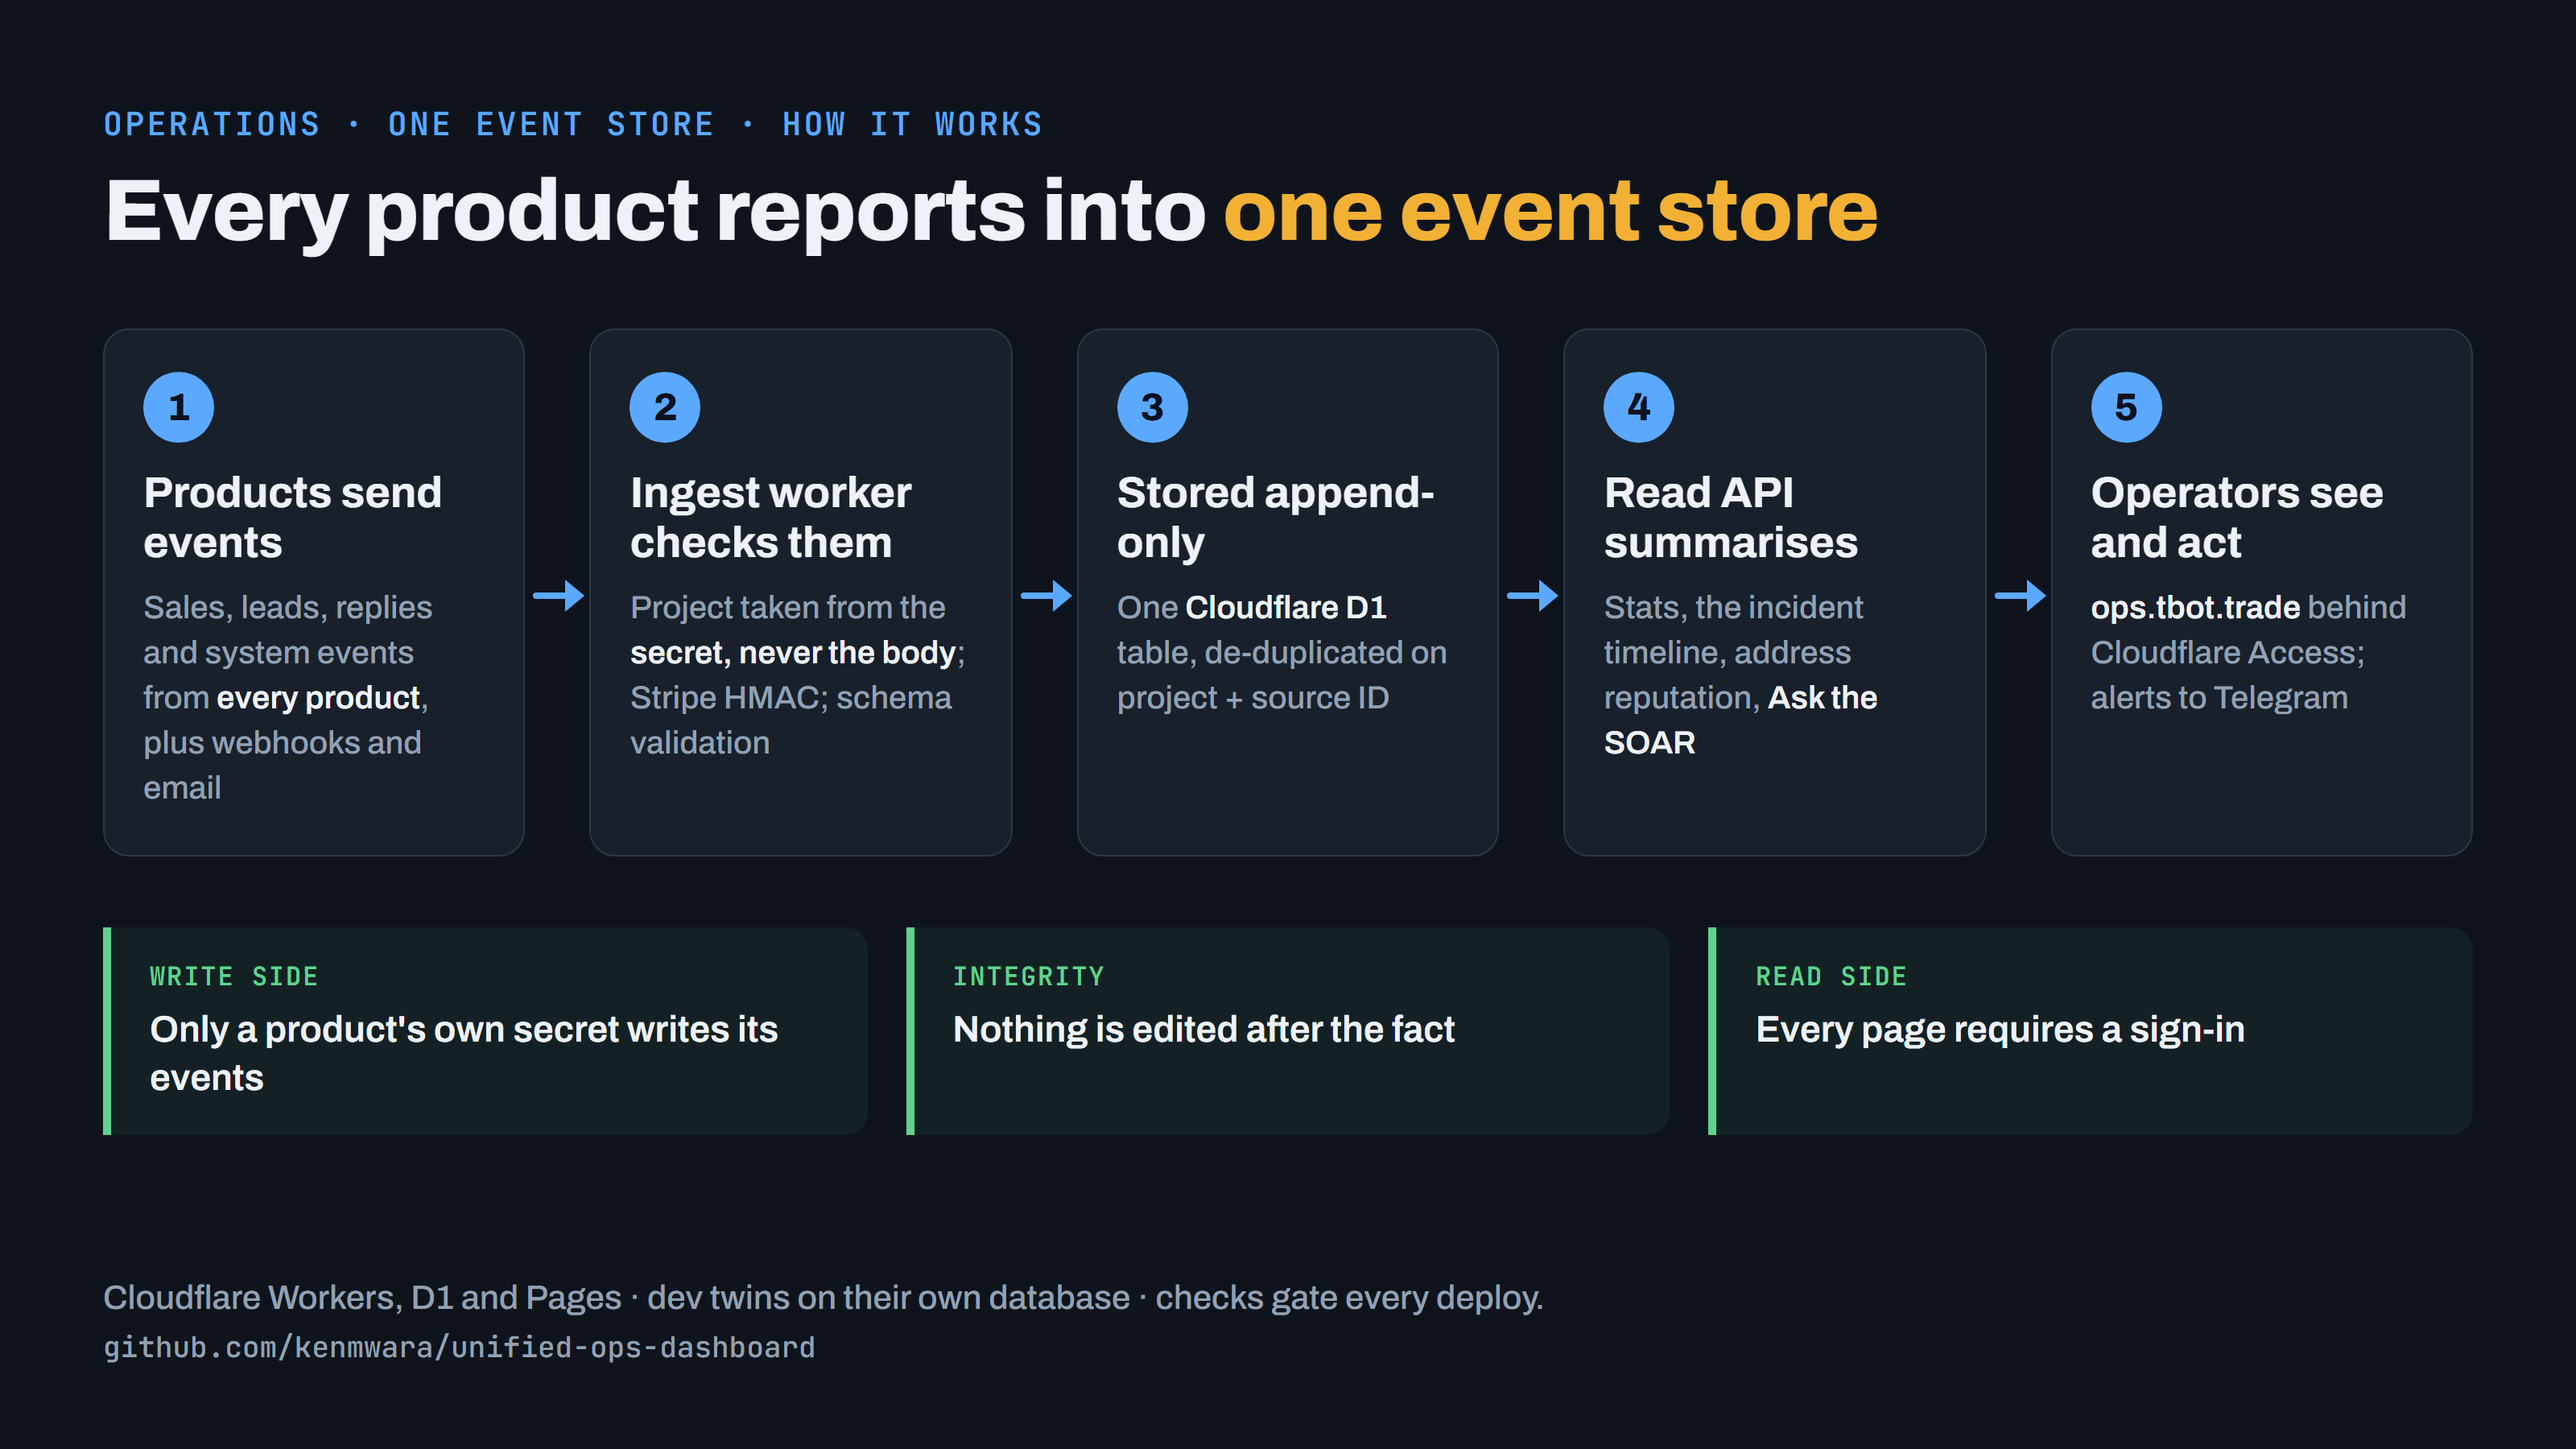
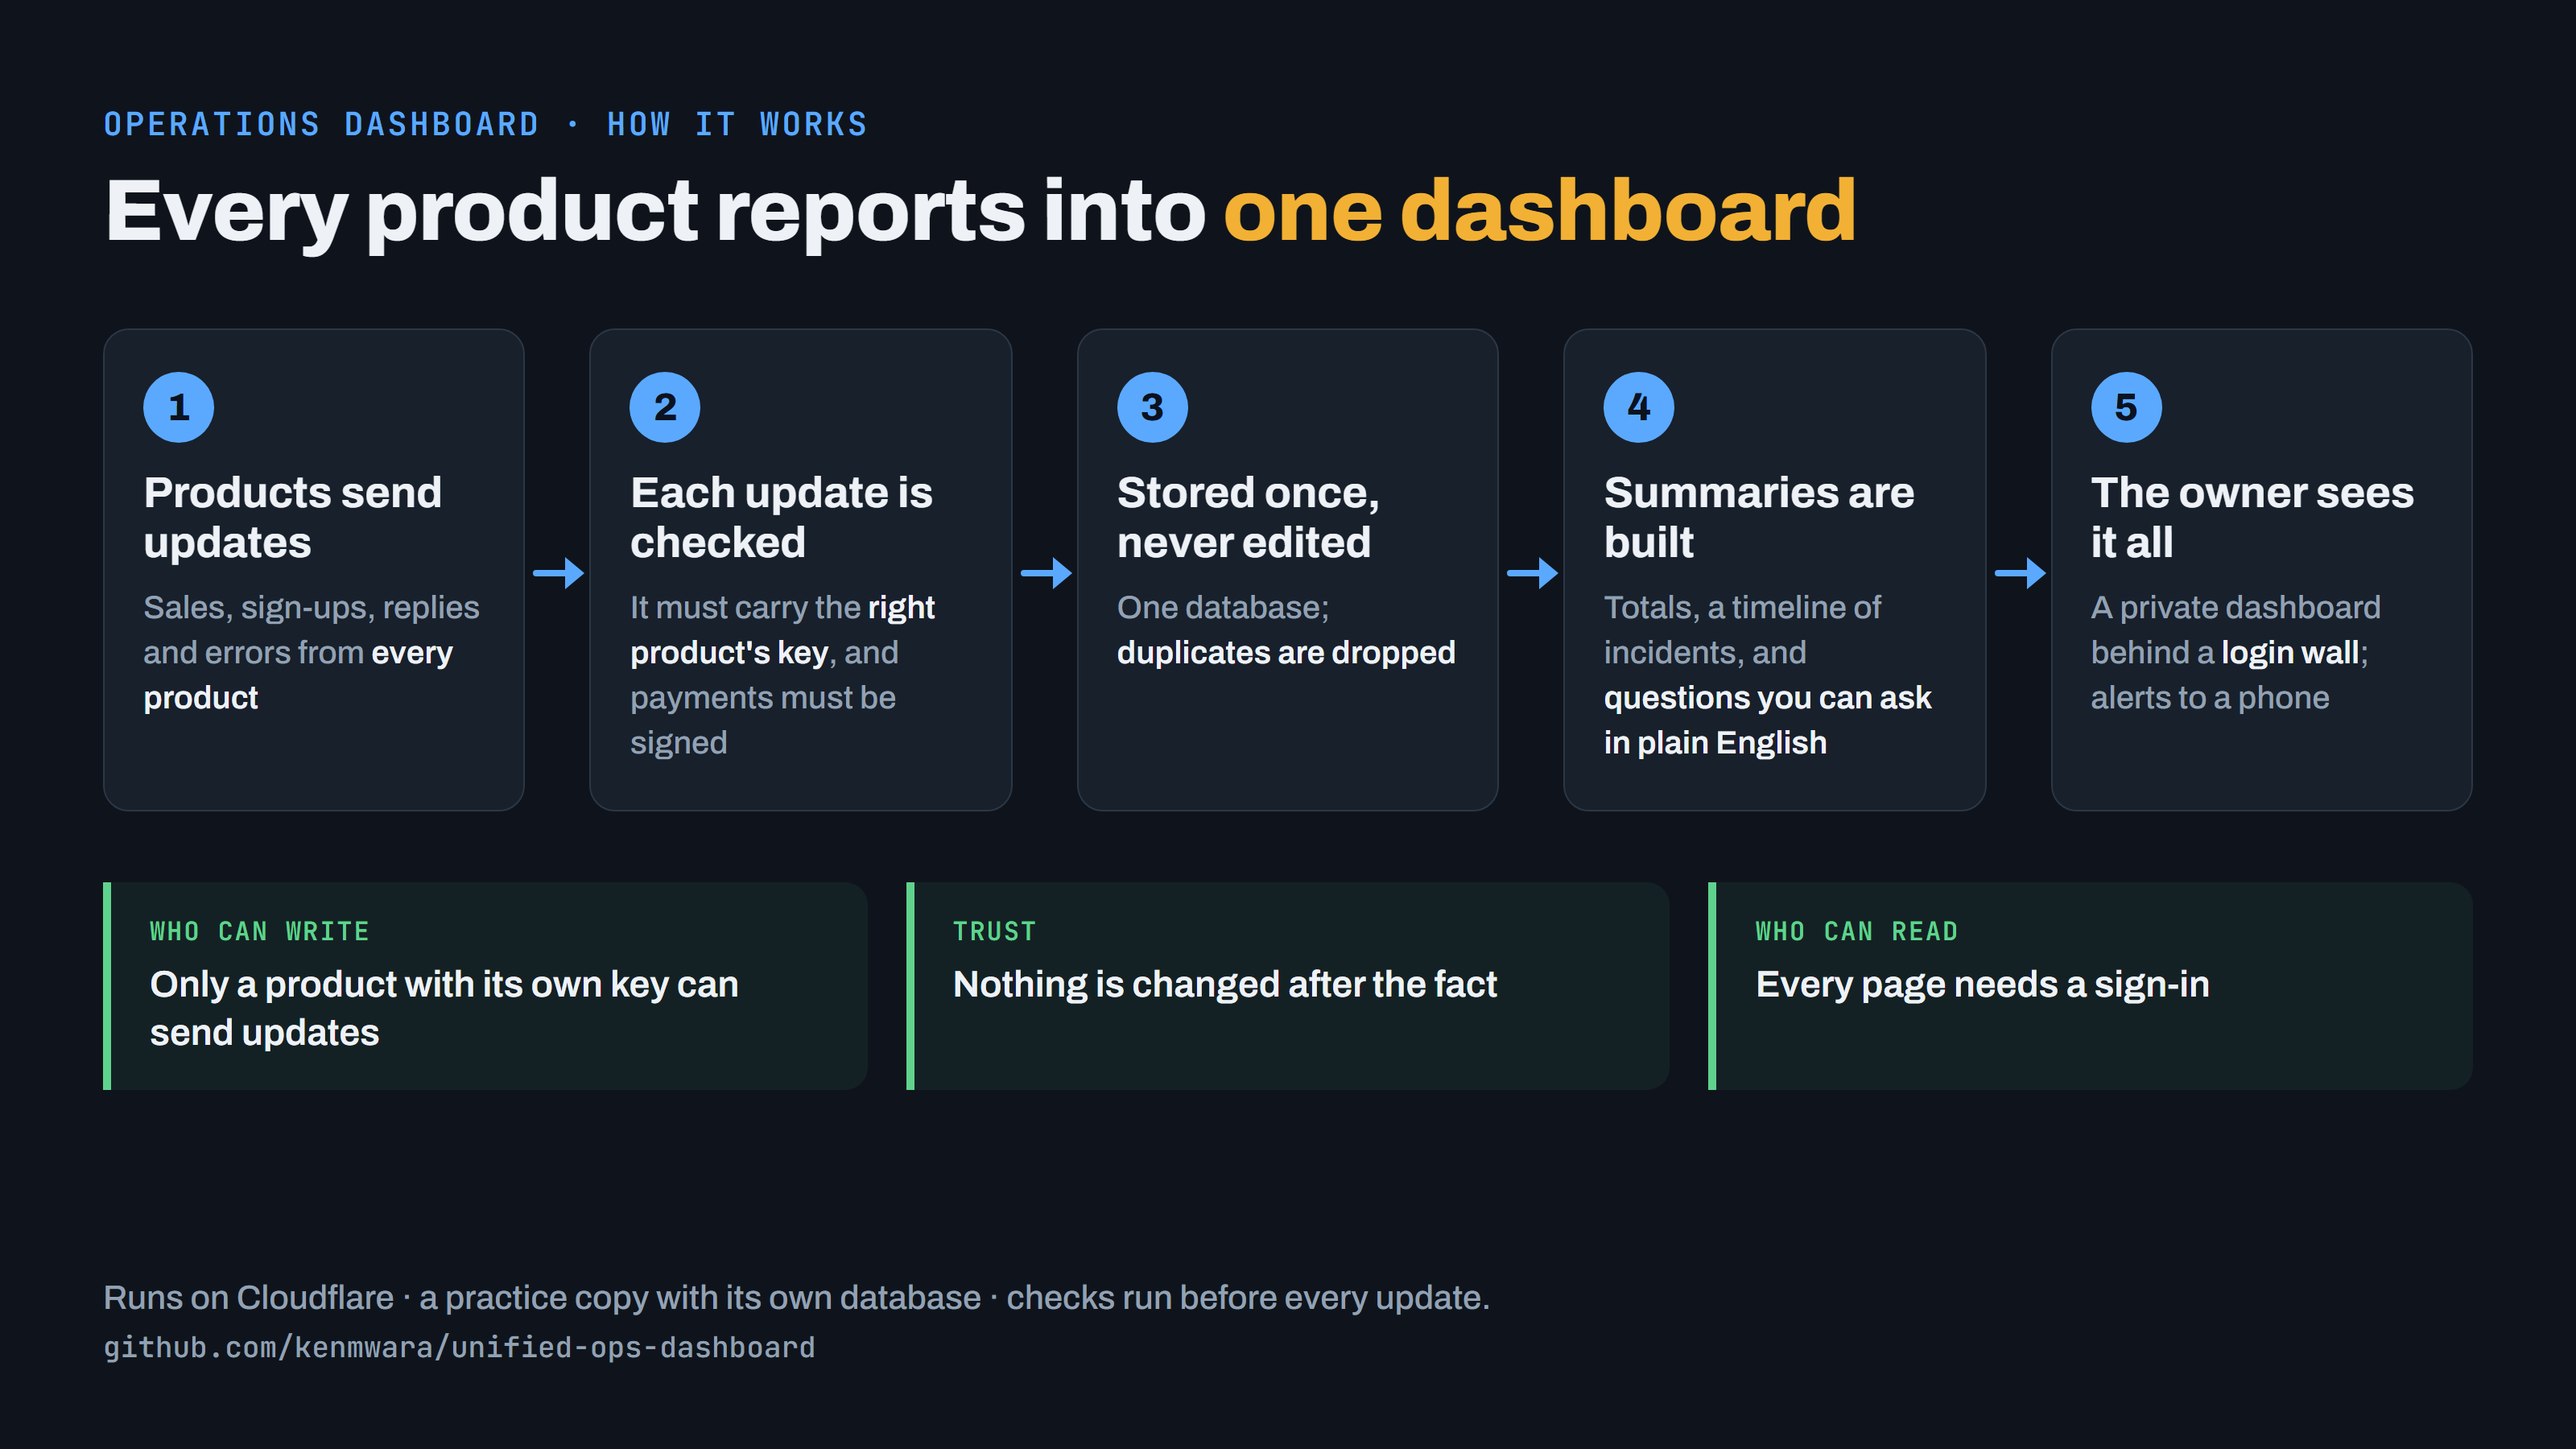
docs: diagrams and scorecards rewritten in plain English

diff --git a/README.md b/README.md
@@ -10,7 +10,7 @@
 
 ---
 
-<img src="images/flow.png" width="100%" alt="Flow diagram in five steps. 1: Products send events; Sales, leads, replies and system events from every product, plus webhooks and email. 2: Ingest worker checks them; Project taken from the secret, never the body; Stripe HMAC; schema validation. 3: Stored append-only; One Cloudflare D1 table, de-duplicated on project + source ID. 4: Read API summarises; Stats, the incident timeline, address reputation, Ask the SOAR. 5: Operators see and act; ops.tbot.trade behind Cloudflare Access; alerts to Telegram. Guards: Write side, only a product's own secret writes its events; Integrity, nothing is edited after the fact; Read side, every page requires a sign-in.">
+<img src="images/flow.png" width="100%" alt="How it works, in five steps. 1. Products send updates: Sales, sign-ups, replies and errors from every product. 2. Each update is checked: It must carry the right product's key, and payments must be signed. 3. Stored once, never edited: One database; duplicates are dropped. 4. Summaries are built: Totals, a timeline of incidents, and questions you can ask in plain English. 5. The owner sees it all: A private dashboard behind a login wall; alerts to a phone. Safeguards: Who can write: Only a product with its own key can send updates; Trust: Nothing is changed after the fact; Who can read: Every page needs a sign-in.">
 
 ## Screenshots
 
